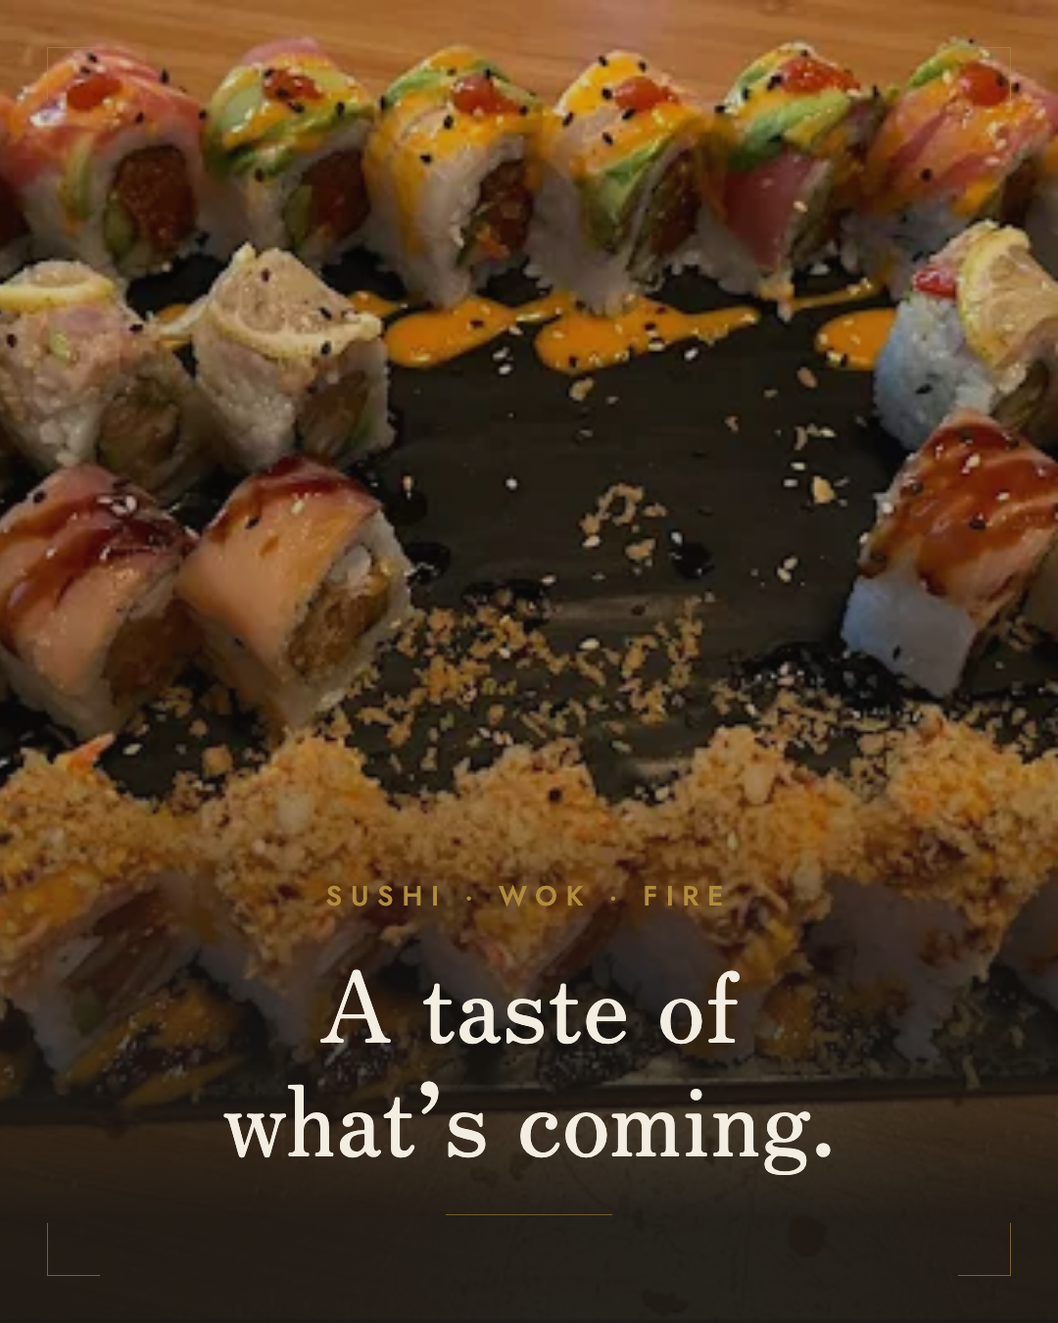
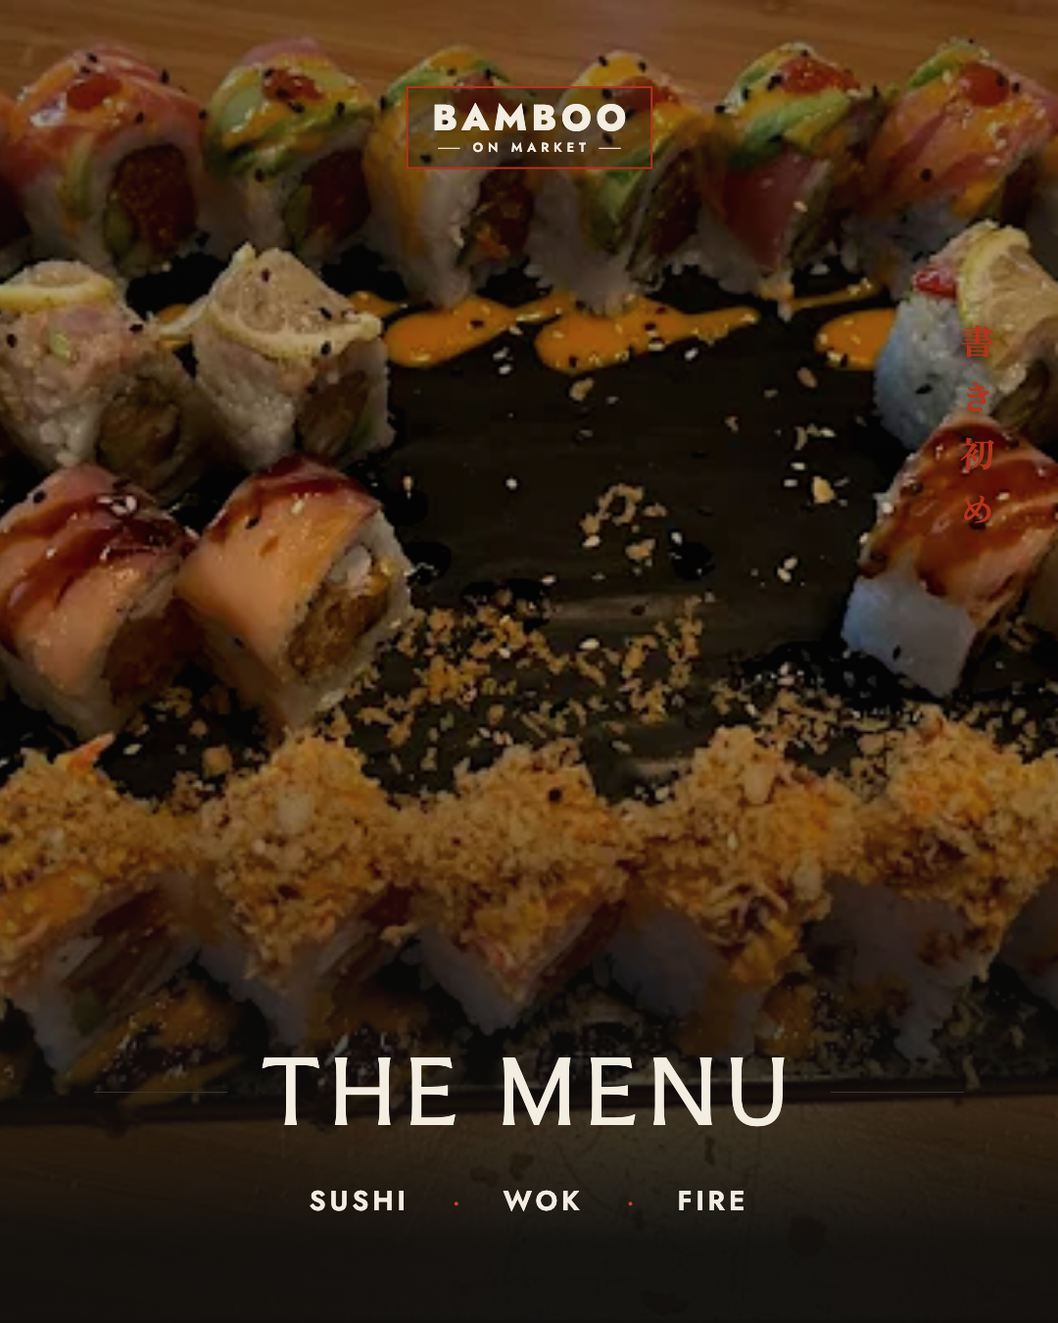
Restyle Instagram slides to match the printed menu system
Replace the generic first pass with the real brand voices from
globals.css and the client menus: Faculty Glyphic display, Jost
caps/eyebrows, red menu-style prices and stars, vermilion keyline
lockup, tategaki kanji strips, ghost kanji, wave and paper textures,
and the house photo grade.

diff --git a/marketing/instagram/generate.py b/marketing/instagram/generate.py
@@ -1,8 +1,10 @@
 #!/usr/bin/env python3
 """Generate Instagram launch slides (1080x1350) for Bamboo on Market.
 
-Renders brand-styled HTML through headless Chrome. Re-run after editing
-SLIDES below; output lands in marketing/instagram/post{1,2,3}/.
+Styled after the client's final menus and the site's market theme
+(src/app/globals.css m-* voices): Faculty Glyphic display, Jost caps,
+red prices, vermilion keyline lockup, tategaki strips, wave + paper
+textures. Re-run after editing SLIDES; output lands in post{1,2,3}/.
 """
 import pathlib
 import subprocess
@@ -11,32 +13,69 @@ import tempfile
 ROOT = pathlib.Path(__file__).resolve().parents[2]
 PHOTOS = ROOT / "public/photos"
 BRAND = ROOT / "public/brand"
+WAVE = (ROOT / "public/textures/wave.webp").as_uri()
+PAPER = (ROOT / "public/textures/paper.webp").as_uri()
 OUT = pathlib.Path(__file__).resolve().parent
 CHROME = "/Applications/Google Chrome.app/Contents/MacOS/Google Chrome"
 
-BASE_CSS = """
-@import url('https://fonts.googleapis.com/css2?family=Jost:wght@400;500;600&family=Zen+Old+Mincho:wght@400;700&family=Hanken+Grotesk:wght@400;500&display=swap');
-:root {
-  --vermilion: #B5341C; --gold: #B08D3E; --gold-soft: #C8A858;
-  --charred: #1A1714; --smoke: #2B2520; --tatami: #C9B18C; --washi: #F3EDE2;
-}
-* { margin: 0; padding: 0; box-sizing: border-box; }
-html, body { width: 1080px; height: 1350px; overflow: hidden; }
-body { background: var(--charred); color: var(--washi); font-family: 'Hanken Grotesk', sans-serif; position: relative; }
-.eyebrow { font-family: Jost, sans-serif; font-weight: 500; letter-spacing: 0.32em; text-transform: uppercase; color: var(--gold); }
-.serif { font-family: 'Zen Old Mincho', serif; font-weight: 400; }
-.hairline { height: 1px; background: color-mix(in srgb, var(--gold) 55%, transparent); }
-.kanji-ghost { position: absolute; font-family: 'Zen Old Mincho', serif; color: var(--washi); opacity: 0.045; line-height: 1; pointer-events: none; }
-.corner { position: absolute; width: 54px; height: 54px; border-color: color-mix(in srgb, var(--gold) 60%, transparent); border-style: solid; border-width: 0; }
-.corner.tl { top: 48px; left: 48px; border-top-width: 1px; border-left-width: 1px; }
-.corner.tr { top: 48px; right: 48px; border-top-width: 1px; border-right-width: 1px; }
-.corner.bl { bottom: 48px; left: 48px; border-bottom-width: 1px; border-left-width: 1px; }
-.corner.br { bottom: 48px; right: 48px; border-bottom-width: 1px; border-right-width: 1px; }
+BASE_CSS = f"""
+@import url('https://fonts.googleapis.com/css2?family=Faculty+Glyphic&family=Jost:wght@400;500;600;800&family=Hanken+Grotesk:ital,wght@0,400;0,500;1,400&family=Zen+Old+Mincho:wght@700;900&display=swap');
+:root {{
+  --char: #161514; --char-deep: #0f0e0d; --smoke: #232120;
+  --verm: #b5341c; --price: #c8442b; --gold: #b08d3e; --gold-soft: #c8a858;
+  --tatami: #c9b18c; --washi: #f3ede2; --seam: #363330;
+}}
+* {{ margin: 0; padding: 0; box-sizing: border-box; }}
+html, body {{ width: 1080px; height: 1350px; overflow: hidden; }}
+body {{ background: var(--char); color: var(--washi); font-family: 'Hanken Grotesk', sans-serif; position: relative; }}
+
+.display {{ font-family: 'Faculty Glyphic', Georgia, serif; font-weight: 400; color: var(--washi); letter-spacing: 0.01em; }}
+.eyebrow {{ font-family: Jost; font-weight: 400; letter-spacing: 0.32em; text-transform: uppercase; color: var(--gold); }}
+.caps {{ font-family: Jost; font-weight: 500; letter-spacing: 0.18em; text-transform: uppercase; }}
+.item-name {{ font-family: Jost; font-weight: 600; letter-spacing: 0.14em; text-transform: uppercase; color: var(--washi); }}
+.price {{ font-family: Jost; font-weight: 500; color: var(--price); }}
+.kanji {{ font-family: 'Zen Old Mincho', serif; font-weight: 700; }}
+
+/* red tick + eyebrow, as on the site section intros */
+.tick-row {{ display: flex; align-items: center; gap: 26px; }}
+.tick {{ width: 72px; height: 2px; background: var(--verm); flex: none; }}
+
+/* section title with hairlines running out, as on the menus */
+.rule-title {{ display: flex; align-items: center; gap: 34px; }}
+.rule-title::before, .rule-title::after {{ content: ""; height: 1px; flex: 1; background: var(--seam); }}
+
+/* vermilion keyline lockup, after the printed logo */
+.lockup {{ display: inline-flex; flex-direction: column; align-items: center; gap: 9px;
+  border: 3px solid var(--verm); padding: 18px 30px 19px; line-height: 1; background: rgba(15,14,13,0.35); }}
+.lockup-name {{ font-family: Jost; font-weight: 800; font-size: 56px; letter-spacing: 0.13em; text-indent: 0.13em; text-transform: uppercase; color: var(--washi); }}
+.lockup-sub {{ display: flex; align-items: center; gap: 13px; font-family: Jost; font-weight: 600; font-size: 20px; letter-spacing: 0.36em; text-indent: 0.36em; text-transform: uppercase; color: var(--washi); }}
+.lockup-sub::before, .lockup-sub::after {{ content: ""; width: 34px; height: 2px; background: currentColor; opacity: 0.9; }}
+
+.tategaki {{ writing-mode: vertical-rl; font-family: 'Zen Old Mincho', serif; font-weight: 700; color: var(--verm); letter-spacing: 0.6em; }}
+.ghost-kanji {{ position: absolute; font-family: 'Zen Old Mincho', serif; font-weight: 900; color: var(--tatami); opacity: 0.05; line-height: 1; pointer-events: none; }}
+
+/* atmosphere: white wave line-art + paper mottle over the char ground */
+.wave {{ position: absolute; pointer-events: none; opacity: 0.07; }}
+.paper {{ position: absolute; inset: 0; pointer-events: none; background-image: url('{PAPER}'); background-size: 1100px; mix-blend-mode: soft-light; opacity: 0.55; }}
+
+/* house photo grade (brand spec) */
+.photo {{ filter: brightness(0.86) saturate(1.08) contrast(1.12) sepia(0.1); }}
 """
 
 
-def corners():
-    return '<div class="corner tl"></div><div class="corner tr"></div><div class="corner bl"></div><div class="corner br"></div>'
+def atmosphere(wave_style="bottom:-120px; right:-170px; width:860px;"):
+    return f"""
+    <img class="wave" src="{WAVE}" style="{wave_style}">
+    <div class="paper"></div>
+    """
+
+
+def lockup(scale=1.0):
+    return f"""
+    <div class="lockup" style="transform:scale({scale}); transform-origin:center top;">
+      <div class="lockup-name">Bamboo</div>
+      <div class="lockup-sub">On Market</div>
+    </div>"""
 
 
 def page(body, extra_css=""):
@@ -44,76 +83,97 @@ def page(body, extra_css=""):
 
 
 def cover_legacy():
-    mark = (BRAND / "logo-mark-white.png").as_uri()
     body = f"""
-    <div class="kanji-ghost" style="font-size:1500px; top:-160px; right:-290px;">竹</div>
-    {corners()}
-    <div style="position:absolute; inset:0; display:flex; flex-direction:column; justify-content:center; padding:0 110px;">
-      <div class="eyebrow" style="font-size:30px; margin-bottom:38px;">Birmingham &middot; Est. 2011</div>
-      <div class="serif" style="font-size:118px; line-height:1.14; letter-spacing:0.01em;">
-        Fifteen years<br>on 2nd Avenue.
+    <div class="ghost-kanji" style="font-size:1250px; top:-130px; left:-230px;">竹</div>
+    {atmosphere()}
+    <div class="tategaki" style="position:absolute; right:64px; top:120px; font-size:40px;">鮨 · 竹 · 灯</div>
+    <div style="position:absolute; top:96px; left:0; right:0; display:flex; justify-content:center;">{lockup(0.82)}</div>
+    <div style="position:absolute; left:104px; right:130px; top:430px;">
+      <div class="tick-row" style="margin-bottom:46px;">
+        <div class="tick"></div>
+        <div class="eyebrow" style="font-size:27px;">Birmingham &middot; Est. 2011 <span class="kanji" style="letter-spacing:0; color:var(--gold);">&middot; 二号店</span></div>
       </div>
-      <div class="hairline" style="width:180px; margin:54px 0;"></div>
-      <div style="font-size:40px; line-height:1.55; color:var(--tatami); max-width:780px;">
-        The next chapter of Bamboo is coming to
-        <span style="color:var(--washi);">Market Street, Chattanooga.</span>
+      <div class="display" style="font-size:94px; line-height:1.2; white-space:nowrap;">Fifteen years<br>on 2nd Avenue.</div>
+      <div style="display:flex; align-items:center; gap:34px; margin:58px 0 0;">
+        <div style="height:1px; background:var(--seam); width:140px;"></div>
+        <div style="font-size:37px; line-height:1.6; color:var(--tatami); max-width:640px;">
+          The next chapter of Bamboo is coming to <span style="color:var(--washi);">Market Street, Chattanooga.</span>
+        </div>
       </div>
     </div>
-    <img src="{mark}" style="position:absolute; bottom:84px; right:96px; width:150px; opacity:0.9;">
-    <div class="eyebrow" style="position:absolute; bottom:104px; left:110px; font-size:24px; color:var(--gold-soft);">Bamboo on Market</div>
+    <div style="position:absolute; left:104px; right:104px; bottom:92px; display:flex; align-items:baseline; justify-content:space-between; border-top:1px solid var(--seam); padding-top:36px;">
+      <div class="item-name" style="font-size:28px;">Bamboo on Market</div>
+      <div class="price" style="font-size:30px;">Opening 2027</div>
+    </div>
     """
     return page(body)
 
 
-def photo_slide(img, label, sublabel):
+def photo_slide(img, name, desc, note="", tategaki="鮨 · 竹 · 灯"):
     uri = pathlib.Path(img).as_uri()
+    note_html = f'<span class="price" style="font-size:28px; margin-left:26px; white-space:nowrap;">{note}</span>' if note else ""
     body = f"""
-    <img src="{uri}" style="position:absolute; inset:0; width:100%; height:100%; object-fit:cover;">
-    <div style="position:absolute; inset:0; background:linear-gradient(to top, rgba(26,23,20,0.92) 0%, rgba(26,23,20,0.25) 22%, rgba(26,23,20,0) 40%);"></div>
-    <div style="position:absolute; left:84px; right:84px; bottom:72px;">
-      <div class="hairline" style="margin-bottom:34px;"></div>
-      <div class="eyebrow" style="font-size:26px; margin-bottom:14px;">{sublabel}</div>
-      <div class="serif" style="font-size:54px; color:var(--washi);">{label}</div>
+    <img class="photo" src="{uri}" style="position:absolute; inset:0; width:100%; height:100%; object-fit:cover;">
+    <div style="position:absolute; inset:0; background:linear-gradient(to top, rgba(15,14,13,0.96) 0%, rgba(15,14,13,0.55) 16%, rgba(15,14,13,0) 34%), linear-gradient(to bottom, rgba(15,14,13,0.45) 0%, rgba(15,14,13,0) 18%);"></div>
+    <div class="tategaki" style="position:absolute; right:52px; top:96px; font-size:34px; text-shadow:0 1px 14px rgba(15,14,13,0.6);">{tategaki}</div>
+    <div style="position:absolute; left:84px; right:84px; bottom:76px;">
+      <div class="tick-row" style="margin-bottom:26px;">
+        <div class="tick" style="width:56px;"></div>
+        <div class="eyebrow" style="font-size:23px;">{desc}</div>
+      </div>
+      <div style="display:flex; align-items:baseline;">
+        <span class="item-name" style="font-size:47px; line-height:1.3;">{name}</span>{note_html}
+      </div>
     </div>
     """
     return page(body)
 
 
-def review_slide(quotes, footer="4.6 &#9733; &middot; 878 Google reviews &middot; Bamboo on 2nd, Birmingham"):
-    cards = ""
-    for q, name, meta in quotes:
-        cards += f"""
-        <div style="background:var(--smoke); border:1px solid color-mix(in srgb, var(--gold) 35%, transparent); padding:64px 68px; margin-bottom:44px;">
-          <div style="color:var(--gold-soft); font-size:34px; letter-spacing:0.28em; margin-bottom:30px;">&#9733;&#9733;&#9733;&#9733;&#9733;</div>
-          <div class="serif" style="font-size:46px; line-height:1.42; color:var(--washi);">&ldquo;{q}&rdquo;</div>
-          <div style="margin-top:34px; display:flex; align-items:baseline; gap:22px;">
-            <span style="font-family:Jost; font-weight:500; font-size:27px; letter-spacing:0.18em; text-transform:uppercase; color:var(--tatami);">{name}</span>
-            <span style="font-size:24px; color:color-mix(in srgb, var(--tatami) 60%, transparent);">{meta}</span>
+def review_slide(quotes, tategaki="近日開店"):
+    items = ""
+    for q, name, stars in quotes:
+        items += f"""
+        <div style="margin-bottom:74px;">
+          <div style="display:flex; align-items:baseline; gap:30px; margin-bottom:26px;">
+            <span class="item-name" style="font-size:33px;">{name}</span>
+            <span style="flex:1; height:1px; background:var(--seam); position:relative; top:-8px;"></span>
+            <span class="price" style="font-size:31px; letter-spacing:0.22em;">{stars}</span>
           </div>
+          <div style="font-size:39px; line-height:1.56; color:var(--tatami); font-weight:400;">&ldquo;{q}&rdquo;</div>
         </div>"""
     body = f"""
-    <div class="kanji-ghost" style="font-size:1200px; bottom:-300px; left:-240px;">竹</div>
-    {corners()}
-    <div style="position:absolute; inset:0; display:flex; flex-direction:column; justify-content:center; padding:0 96px;">
-      <div class="eyebrow" style="font-size:28px; margin-bottom:46px; text-align:center;">From our Google reviews</div>
-      {cards}
-      <div style="text-align:center; margin-top:10px; font-family:Jost; font-size:26px; letter-spacing:0.14em; color:var(--gold);">{footer}</div>
+    <div class="ghost-kanji" style="font-size:1150px; bottom:-260px; right:-260px;">灯</div>
+    {atmosphere("top:-60px; left:-200px; width:760px; transform:scaleY(-1);")}
+    <div class="tategaki" style="position:absolute; right:64px; top:420px; font-size:36px;">{tategaki}</div>
+    <div style="position:absolute; left:104px; right:160px; top:118px;">
+      <div class="rule-title" style="margin-bottom:30px;">
+        <div class="display" style="font-size:66px; letter-spacing:0.12em; text-transform:uppercase; white-space:nowrap;">Google Reviews</div>
+      </div>
+      <div class="caps" style="text-align:center; font-size:24px; color:var(--tatami); margin-bottom:96px;">Bamboo on 2nd &middot; Birmingham</div>
+      {items}
+    </div>
+    <div style="position:absolute; left:104px; right:104px; bottom:92px; display:flex; align-items:baseline; justify-content:space-between; border-top:1px solid var(--seam); padding-top:36px;">
+      <div class="item-name" style="font-size:26px;">878 reviews on Google</div>
+      <div class="price" style="font-size:30px;">4.6 &#9733;</div>
     </div>
     """
     return page(body)
 
 
 def closer_slide():
-    mark = (BRAND / "logo-mark-white.png").as_uri()
     body = f"""
-    {corners()}
-    <div style="position:absolute; inset:0; display:flex; flex-direction:column; align-items:center; justify-content:center; text-align:center; padding:0 100px;">
-      <img src="{mark}" style="width:300px; margin-bottom:70px;">
-      <div class="serif" style="font-size:96px; line-height:1.2;">Bamboo<br>on Market</div>
-      <div class="hairline" style="width:160px; margin:56px 0;"></div>
-      <div class="eyebrow" style="font-size:30px; margin-bottom:26px;">Opening</div>
-      <div class="serif" style="font-size:62px; color:var(--gold-soft);">February 1, 2027</div>
-      <div style="margin-top:44px; font-size:34px; color:var(--tatami);">Market Street &middot; Downtown Chattanooga</div>
+    <div class="ghost-kanji" style="font-size:1300px; top:-180px; right:-300px;">竹</div>
+    {atmosphere()}
+    <div class="tategaki" style="position:absolute; left:64px; top:120px; font-size:40px;">近日開店</div>
+    <div style="position:absolute; inset:0; display:flex; flex-direction:column; align-items:center; justify-content:center; text-align:center; padding:0 110px;">
+      {lockup(1.3)}
+      <div class="display" style="font-size:86px; line-height:1.24; margin-top:110px;">See you on<br>Market Street.</div>
+      <div style="display:flex; align-items:baseline; gap:30px; margin-top:92px; width:640px;">
+        <span class="item-name" style="font-size:30px;">Opening</span>
+        <span style="flex:1; height:1px; background:var(--seam); position:relative; top:-8px;"></span>
+        <span class="price" style="font-size:34px;">February 1, 2027</span>
+      </div>
+      <div style="margin-top:40px; font-size:30px; color:var(--tatami);">Downtown Chattanooga &middot; a short walk from the riverfront</div>
     </div>
     """
     return page(body)
@@ -122,13 +182,19 @@ def closer_slide():
 def food_cover():
     uri = (PHOTOS / "rolls-platter.webp").as_uri()
     body = f"""
-    <img src="{uri}" style="position:absolute; inset:0; width:100%; height:100%; object-fit:cover;">
-    <div style="position:absolute; inset:0; background:linear-gradient(to top, rgba(26,23,20,0.95) 8%, rgba(26,23,20,0.35) 42%, rgba(26,23,20,0.15) 100%);"></div>
-    {corners()}
-    <div style="position:absolute; left:90px; right:90px; bottom:110px; text-align:center;">
-      <div class="eyebrow" style="font-size:28px; margin-bottom:28px;">Sushi &middot; Wok &middot; Fire</div>
-      <div class="serif" style="font-size:100px; line-height:1.16;">A taste of<br>what&rsquo;s coming.</div>
-      <div class="hairline" style="width:170px; margin:44px auto 0;"></div>
+    <img class="photo" src="{uri}" style="position:absolute; inset:0; width:100%; height:100%; object-fit:cover;">
+    <div style="position:absolute; inset:0; background:linear-gradient(to top, rgba(15,14,13,0.97) 6%, rgba(15,14,13,0.5) 30%, rgba(15,14,13,0.18) 55%, rgba(15,14,13,0.4) 100%);"></div>
+    <div style="position:absolute; top:88px; left:0; right:0; display:flex; justify-content:center;">{lockup(0.66)}</div>
+    <div class="tategaki" style="position:absolute; right:56px; top:330px; font-size:36px; text-shadow:0 1px 14px rgba(15,14,13,0.6);">書き初め</div>
+    <div style="position:absolute; left:96px; right:96px; bottom:104px;">
+      <div class="rule-title" style="margin-bottom:34px;">
+        <div class="display" style="font-size:88px; letter-spacing:0.1em; text-transform:uppercase; white-space:nowrap;">The Menu</div>
+      </div>
+      <div style="display:flex; justify-content:center; gap:44px; align-items:baseline;">
+        <span class="item-name" style="font-size:28px;">Sushi</span><span class="price" style="font-size:26px;">&middot;</span>
+        <span class="item-name" style="font-size:28px;">Wok</span><span class="price" style="font-size:26px;">&middot;</span>
+        <span class="item-name" style="font-size:28px;">Fire</span>
+      </div>
     </div>
     """
     return page(body)
@@ -137,50 +203,55 @@ def food_cover():
 def mockup_slide():
     uri = (BRAND / "floor-model-poster.jpg").as_uri()
     body = f"""
-    {corners()}
-    <div style="position:absolute; inset:0; display:flex; flex-direction:column; justify-content:center; padding:0 86px;">
-      <div class="eyebrow" style="font-size:28px; text-align:center; margin-bottom:40px;">The room we&rsquo;re building</div>
-      <div style="border:1px solid color-mix(in srgb, var(--gold) 55%, transparent); padding:14px; background:var(--smoke);">
-        <img src="{uri}" style="display:block; width:100%; height:auto;">
+    {atmosphere("top:-80px; right:-200px; width:760px; transform:scale(-1);")}
+    <div style="position:absolute; left:96px; right:96px; top:104px;">
+      <div class="tick-row" style="margin-bottom:40px;">
+        <div class="tick"></div>
+        <div class="eyebrow" style="font-size:26px;">The room we&rsquo;re building</div>
       </div>
-      <div style="text-align:center; margin-top:48px;">
-        <div class="serif" style="font-size:56px; line-height:1.3;">Dining room, sushi counter,<br>twin patios &mdash; drawn to scale.</div>
-        <div class="hairline" style="width:160px; margin:36px auto;"></div>
-        <div class="eyebrow" style="font-size:27px; margin-bottom:18px;">Opening</div>
-        <div class="serif" style="font-size:54px; color:var(--gold-soft);">February 1, 2027</div>
+      <div style="border:1px solid var(--seam); outline:1px solid rgba(181,52,28,0.5); outline-offset:10px; background:var(--char-deep);">
+        <img src="{uri}" style="display:block; width:100%; height:auto; filter:saturate(1.05);">
+      </div>
+      <div class="display" style="font-size:62px; line-height:1.32; margin-top:72px;">Dining room, sushi counter,<br>twin patios &mdash; drawn to scale.</div>
+      <div style="display:flex; align-items:baseline; gap:30px; margin-top:64px;">
+        <span class="item-name" style="font-size:29px;">Opening</span>
+        <span style="flex:1; height:1px; background:var(--seam); position:relative; top:-8px;"></span>
+        <span class="price" style="font-size:33px;">February 1, 2027</span>
       </div>
     </div>
     """
     return page(body)
 
 
+STARS = "&#9733;&#9733;&#9733;&#9733;&#9733;"
+
 SLIDES = {
     # Post 1 — legacy carousel
     "post1/01-cover.png": cover_legacy(),
-    "post1/02-dining-room.png": photo_slide(PHOTOS / "dining-room.webp", "The room that started it all.", "Bamboo on 2nd &middot; Birmingham"),
-    "post1/03-counter.png": photo_slide(PHOTOS / "counter.webp", "Fifteen years behind the counter.", "Bamboo on 2nd &middot; Birmingham"),
-    "post1/04-chefs.png": photo_slide(PHOTOS / "chefs.webp", "Same hands. Same standards.", "Bamboo on 2nd &middot; Birmingham"),
+    "post1/02-dining-room.png": photo_slide(PHOTOS / "dining-room.webp", "The room that started it all", "Bamboo on 2nd &middot; Birmingham"),
+    "post1/03-counter.png": photo_slide(PHOTOS / "counter.webp", "Fifteen years behind the counter", "Bamboo on 2nd &middot; Birmingham"),
+    "post1/04-chefs.png": photo_slide(PHOTOS / "chefs.webp", "Same hands &middot; Same standards", "Bamboo on 2nd &middot; Birmingham"),
     "post1/05-reviews-a.png": review_slide([
-        ("The best sushi in Birmingham, hands down! You cannot have a bad time here.", "M. H. S.", "Local Guide"),
-        ("Amazing service, impeccable food, great ambience. You can really tell that everyone really cares.", "Serena F.", "Google review"),
+        ("The best sushi in Birmingham, hands down! You cannot have a bad time here.", "M. H. S.", STARS),
+        ("Amazing service, impeccable food, great ambience. You can really tell that everyone really cares.", "Serena F.", STARS),
     ]),
     "post1/06-reviews-b.png": review_slide([
-        ("Maybe the best ribs I&rsquo;ve had in a decade or two.", "Samuel T.", "Google review"),
-        ("We&rsquo;ve been eating here quarterly since they opened, and they never disappoint.", "Steve S.", "Local Guide"),
+        ("Maybe the best ribs I&rsquo;ve had in a decade or two.", "Samuel T.", STARS),
+        ("We&rsquo;ve been eating here quarterly since they opened, and they never disappoint.", "Steve S.", STARS),
     ]),
     "post1/07-closer.png": closer_slide(),
-    # Post 2 — food carousel
+    # Post 2 — food carousel, captioned like menu items
     "post2/01-cover.png": food_cover(),
-    "post2/02-nigiri.png": photo_slide(PHOTOS / "nigiri.webp", "Cut to order.", "From the sushi counter"),
-    "post2/03-ramen.png": photo_slide(PHOTOS / "ramen-close.webp", "Broth, built slow.", "From the kitchen"),
-    "post2/04-ribs.png": photo_slide(PHOTOS / "ribs.webp", "Glazed over fire.", "From the wok &amp; grill"),
-    "post2/05-skewers.png": photo_slide(PHOTOS / "skewers.webp", "Charred &amp; skewered.", "From the wok &amp; grill"),
-    "post2/06-glazed-bowl.png": photo_slide(PHOTOS / "glazed-bowl.webp", "Bowls with backbone.", "From the kitchen"),
-    "post2/07-sashimi.png": photo_slide(PHOTOS / "sashimi-board.webp", "The quiet flex.", "From the sushi counter"),
+    "post2/02-nigiri.png": photo_slide(PHOTOS / "nigiri.webp", "Nigiri", "From the sushi counter", note="Cut to order"),
+    "post2/03-ramen.png": photo_slide(PHOTOS / "ramen-close.webp", "Ramen", "From the kitchen", note="Broth built slow"),
+    "post2/04-ribs.png": photo_slide(PHOTOS / "ribs.webp", "Baby back ribs", "From the wok &amp; grill", note="Hoisin glaze"),
+    "post2/05-skewers.png": photo_slide(PHOTOS / "skewers.webp", "Skewers", "From the wok &amp; grill", note="Over fire"),
+    "post2/06-glazed-bowl.png": photo_slide(PHOTOS / "glazed-bowl.webp", "Bowls", "From the kitchen", note="With backbone"),
+    "post2/07-sashimi.png": photo_slide(PHOTOS / "sashimi-board.webp", "Sashimi", "From the sushi counter", note="The quiet flex"),
     # Post 3 — the building + open date
-    "post3/01-storefront.png": photo_slide(BRAND / "visit-storefront.png", "Market Street, Chattanooga.", "Render &middot; Coming 2027"),
+    "post3/01-storefront.png": photo_slide(BRAND / "visit-storefront.png", "Market Street, Chattanooga", "Render &middot; Coming 2027", tategaki="近日開店"),
     "post3/02-floor-model.png": mockup_slide(),
-    "post3/03-door.png": photo_slide(BRAND / "hero-door.webp", "See you at the red door.", "Opening February 1, 2027"),
+    "post3/03-door.png": photo_slide(BRAND / "hero-door.webp", "See you at the red door", "Opening February 1, 2027", tategaki="鮨 · 竹 · 灯"),
 }
 
 
@@ -194,7 +265,7 @@ def main():
             subprocess.run([
                 CHROME, "--headless", "--disable-gpu", "--hide-scrollbars",
                 f"--screenshot={out}", "--window-size=1080,1350",
-                "--virtual-time-budget=9000", src.as_uri(),
+                "--virtual-time-budget=10000", src.as_uri(),
             ], check=True, capture_output=True)
             print("wrote", rel)
 
